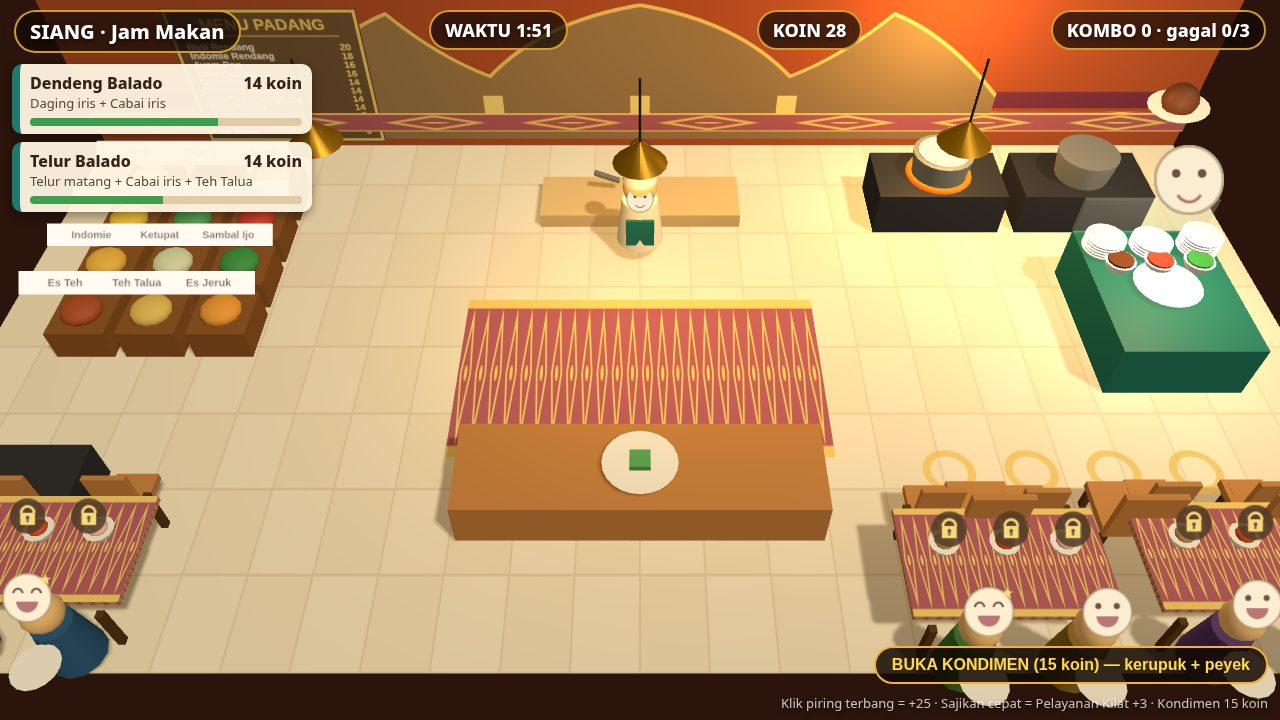
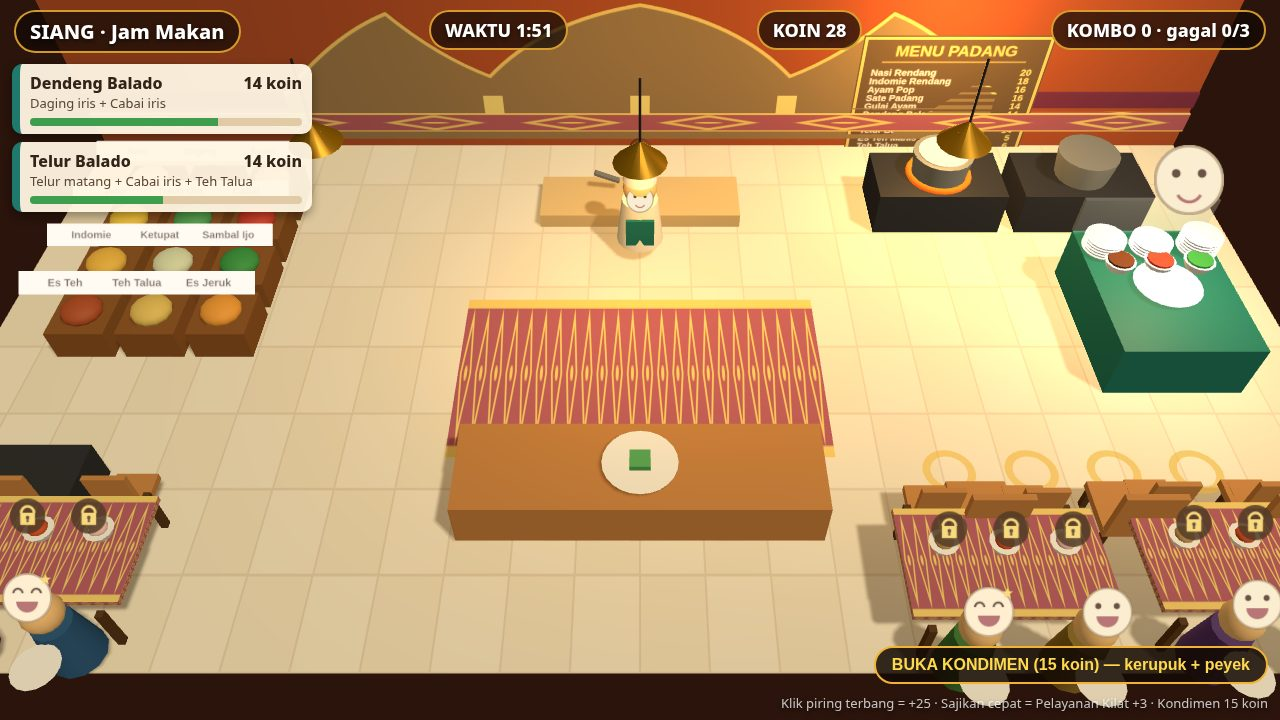
Fix kuntilanak fairness (Goldfish B1): lull telegraph + 55s patience; brighter horror, gold-rim flying plate, menu board visible

diff --git a/game/src/main.js b/game/src/main.js
@@ -2,7 +2,7 @@
 // same autopilot, same ?shot/?auto/?seed — only the renderer is Three.js.
 import { BEST_KEY, H, INGREDIENTS, INTERACT_RADIUS, RECIPES, STAGES, STATIONS, STEP, itemName, recipeById } from './config.js';
 import { createRandom } from './random.js';
-import { createWorld, EVENT_CHOP, EVENT_DING, EVENT_DROP, EVENT_FAILED, EVENT_KUNTILANAK, EVENT_KUNTILANAK_FAIL, EVENT_KUNTILANAK_WIN, EVENT_LOSE, EVENT_NO_ORDER, EVENT_PICKUP, EVENT_PLATE, EVENT_RUSH, EVENT_SERVED, EVENT_STAGE, EVENT_WIN } from './kitchen.js';
+import { createWorld, EVENT_CHOP, EVENT_DING, EVENT_DROP, EVENT_FAILED, EVENT_KUNTILANAK, EVENT_KUNTILANAK_FAIL, EVENT_KUNTILANAK_WIN, EVENT_LOSE, EVENT_NONE, EVENT_NO_ORDER, EVENT_PICKUP, EVENT_PLATE, EVENT_RUSH, EVENT_SERVED, EVENT_STAGE, EVENT_WIN } from './kitchen.js';
 import { ACTION_CONFIRM, ACTION_MUTE, ACTION_PAUSE, createInput } from './input.js';
 import { createScene3D, SCREEN_OVER, SCREEN_PAUSED, SCREEN_PLAY, SCREEN_TITLE } from './scene3d.js';
 import { createAudio } from './audio.js';
@@ -21,6 +21,7 @@ const status = document.getElementById('status');
 let condimentBonus = 0;
 let condimentTakes = 0;
 const world = createWorld(createRandom(seed));
+window.__world = world; // debug hook for the sim (like __scene3d below)
 const scene3d = createScene3D(canvas);
 window.__scene3d = scene3d;
 const audio = createAudio();
@@ -120,12 +121,33 @@ function moveToward(worldState, target) {
   }
   return { dx: dx / d, dy: dy / d };
 }
+// Build order: an ingredient that only the target recipe needs goes on the
+// plate FIRST. A plate that exactly matches another recipe auto-completes
+// as that recipe the moment it lands — building Nasi Kapau NASI-first
+// turns [NASI, DAGING] into Rendang on the pass, jamming it with no
+// matching ticket (proven 25 Nov in sim-logic: kapau expired unserved).
+// SAYUR first keeps the plate from ever matching Rendang.
+function buildOrder(recipe) {
+  const rivals = RECIPES.filter((r) => r.id !== recipe.id && r.needs.every((n) => recipe.needs.includes(n)));
+  return [...recipe.needs].sort((a, b) => {
+    const ca = rivals.filter((r) => r.needs.includes(a)).length;
+    const cb = rivals.filter((r) => r.needs.includes(b)).length;
+    return ca - cb;
+  });
+}
 function autopilotInput() {
   const s = world.state;
   const none = { dx: 0, dy: 0, interact: false };
-  const ticket = s.tickets[0];
+  // Telegraph: during the quiet lull before she arrives there is no ticket
+  // yet, but the banner already says Sate Padang ×3 — cook sate now and
+  // stage it on the etalase, exactly like a human who read the warning.
+  let ticket = s.tickets[0];
+  if (!ticket && s.kuntilanak.lull && s.kuntilanak.status === 'idle') {
+    ticket = { recipeId: 'sate', needs: recipeById('sate').needs };
+  }
   if (!ticket) return { dx: 0, dy: 0, interact: false };
   const recipe = recipeById(ticket.recipeId);
+  const orderedNeeds = buildOrder(recipe);
   if (s.passDish) {
     if (atStation(s, 'pass')) return { dx: 0, dy: 0, interact: true };
     return { ...moveToward(s, stationCentre('pass')), interact: false };
@@ -144,7 +166,7 @@ function autopilotInput() {
     if (atStation(s, 'bin')) return { dx: 0, dy: 0, interact: true };
     return { ...moveToward(s, stationCentre('bin')), interact: false };
   }
-  const need = recipe.needs.find((n) => !s.plate.includes(n));
+  const need = orderedNeeds.find((n) => !s.plate.includes(n));
   if (!need) return none;
   const [needId, needState] = need.split(':');
   const inTray = s.tray.indexOf(need);
@@ -161,6 +183,21 @@ function autopilotInput() {
     }
     const other = recipe.needs.find((n) => !s.plate.includes(n) && !s.tray.some((k) => k.split(':')[0] === n.split(':')[0]) && n !== need && !s.pots.some((p) => p.item && p.item.split(':')[0] === n.split(':')[0]));
     if (other && s.tray.length < 3) return fetchInput(s, other);
+    // While this pot cooks, start the next cookable in the free pot
+    // instead of idling at the stove (same as sim-logic.mjs).
+    const freePot = s.pots.findIndex((p) => !p.item);
+    if (freePot >= 0) {
+      const cookIdx = s.tray.findIndex((k) => {
+        const [id, st] = k.split(':');
+        const ing = INGREDIENTS[id];
+        if (!ing || !recipe.needs.some((n) => n.split(':')[0] === id)) return false;
+        return (st === 'raw' && ing.prep === 'cook') || (st === 'chopped' && ing.prep === 'chopcook');
+      });
+      if (cookIdx >= 0) {
+        if (atStation(s, `stove:${freePot}`)) return { dx: 0, dy: 0, interact: true };
+        return { ...moveToward(s, stationCentre(`stove:${freePot}`)), interact: false };
+      }
+    }
     return { ...moveToward(s, stationCentre(`stove:${potIdx}`)), interact: false };
   }
   const ing = INGREDIENTS[needId];
@@ -260,7 +297,19 @@ function updateHUD() {
   }).join('');
   // Horror overlay.
   $('vignette').style.opacity = String(Math.min(1, (s.horror || 0) * 0.9));
-  $('horror-banner').style.opacity = s.kuntilanak.status === 'active' ? '1' : '0';
+  // Telegraph: while the kitchen is quiet before she arrives, the banner
+  // warns what she will order (Sate Padang ×3) so the cook can pre-cook
+  // during the lull instead of learning it from the ticket.
+  const banner = $('horror-banner');
+  if (s.kuntilanak.status === 'active') {
+    banner.textContent = 'DIA DATANG...';
+    banner.style.opacity = '1';
+  } else if (s.kuntilanak.lull && s.kuntilanak.status === 'idle') {
+    banner.textContent = 'DIA LAPAR... SATE PADANG ×3 — MASAK SEKARANG!';
+    banner.style.opacity = '1';
+  } else {
+    banner.style.opacity = '0';
+  }
   // Stage card.
   const card = $('stage-card');
   if (s.transition > 0) {
@@ -274,9 +323,28 @@ function updateHUD() {
   condBar.style.display = (!s.condimentsUnlocked && s.coins >= 15) ? 'block' : 'none';
 }
 
+// Click the flying plate where it is actually drawn: its screen position
+// is the 3D projection at its floating height (2.6), not its 2D floor
+// coordinates — comparing raw click pixels to floor coords missed by ~90px.
+function tryPlateClick(x, y) {
+  const fp = world.state.flyingPlate;
+  if (!fp.active) return EVENT_NONE;
+  const pp = scene3d.project(fp.x, fp.y, 2.6);
+  if (Math.hypot(x - pp.x, y - pp.y) > 44) return EVENT_NONE;
+  return world.tryCatchPlate(fp.x, fp.y);
+}
+
 function runShot(name) {
   const scene = stageShot(name, world);
   $('overlay').style.display = 'none';
+  // Clicking works in shot scenes too: the staged flying plate can be
+  // caught with a real click (tryCatchPlate), like in the live game.
+  canvas.addEventListener('pointerdown', (e) => {
+    const rect = canvas.getBoundingClientRect();
+    const x = (e.clientX - rect.left) * (canvas.width / rect.width);
+    const y = (e.clientY - rect.top) * (canvas.height / rect.height);
+    tryPlateClick(x, y);
+  });
   let painted = 0;
   function paint() {
     updateHUD();
@@ -297,6 +365,8 @@ function exposeState(screen) {
     tickets: s.tickets.length, tray: [...s.tray], plate: [...s.plate], passDish: s.passDish,
     stageIndex: s.stageIndex, stageElapsed: Math.round(s.stageElapsed * 10) / 10,
     transition: Math.round(s.transition * 10) / 10, kuntilanak: s.kuntilanak.status,
+    kuntilanakTelegraph: s.kuntilanak.lull && s.kuntilanak.status === 'idle',
+    flyingPlateX: Math.round(s.flyingPlate.x), flyingPlateY: Math.round(s.flyingPlate.y),
     badges: [...s.badges], flyingPlate: s.flyingPlate.active, kapauDue: s.kapauDue,
     horror: Math.round((s.horror || 0) * 100) / 100, customers: s.customers.length,
     condimentUnlocked: !!s.condimentsUnlocked, condimentBonus, condimentTakes,
@@ -417,7 +487,7 @@ function runGame() {
     const click = input.takeClick();
     if (click) {
       audio.unlock();
-      const plateEvents = world.tryCatchPlate(click.x, click.y);
+      const plateEvents = tryPlateClick(click.x, click.y);
       if (plateEvents) {
         handleEvents(plateEvents);
         mouseStation = null;

diff --git a/game/src/scene3d.js b/game/src/scene3d.js
@@ -56,7 +56,7 @@ export function createScene3D(canvas) {
   lampPass.position.set(toWorldX(1192), 3.0, toWorldZ(420));
   scene.add(lampPass);
   const horrorLight = new THREE.PointLight(0xaa0000, 0, 14, 1.4);
-  horrorLight.position.set(toWorldX(1192), 2.5, toWorldZ(380));
+  horrorLight.position.set(toWorldX(1150), 2.5, toWorldZ(350)); // on her, not the etalase
   scene.add(horrorLight);
 
   // ---- the room shell: checkered floor, back wall, door, dressing ----
@@ -137,11 +137,14 @@ export function createScene3D(canvas) {
   gonjong.name = 'gonjong';
   gonjong.position.set(0, 1.8, -5.15);
   scene.add(gonjong);
+  // Menu board, right of the gonjong: it used to hang at x=-7.0, directly
+  // behind the ticket column, so the tickets hid every dish name. On the
+  // right wall, above the stoves, its title and prices stay visible.
   const menuBoard = new THREE.Mesh(
     new THREE.PlaneGeometry(3.6, 2.95),
     new THREE.MeshStandardMaterial({ map: drawMenuTexture(), roughness: 0.85 })
   );
-  menuBoard.position.set(-7.0, 1.6, -5.15);
+  menuBoard.position.set(6.0, 1.05, -5.15);
   scene.add(menuBoard);
   // Hanging lamps: visible brass shades + bulbs; the point lights above do
   // the actual lighting, these are the fixtures you see.
@@ -438,7 +441,7 @@ export function createScene3D(canvas) {
   // ---- the kuntilanak ----
   const kunti = new THREE.Group();
   const dress = new THREE.Mesh(new THREE.ConeGeometry(0.55, 1.7, 16),
-    new THREE.MeshStandardMaterial({ color: 0xf2f2f5, roughness: 0.9, transparent: true, opacity: 0.96 }));
+    new THREE.MeshStandardMaterial({ color: 0xf2f2f5, roughness: 0.9, transparent: true, opacity: 0.96, emissive: 0x661111, emissiveIntensity: 0.6 }));
   dress.position.y = 0.85; dress.castShadow = true;
   const kHead = new THREE.Mesh(new THREE.SphereGeometry(0.26, 16, 12),
     new THREE.MeshStandardMaterial({ color: 0xe8d8c8, roughness: 0.6 }));
@@ -450,18 +453,31 @@ export function createScene3D(canvas) {
   kFace.scale.set(0.5, 0.5, 1);
   kFace.position.set(0, 1.85, 0.28);
   kunti.add(dress, kHead, hair, kFace);
-  kunti.position.set(toWorldX(1192), 0.35, toWorldZ(330));
+  // Red halo so she reads as a figure at thumbnail size, not a smudge.
+  const kGlow = new THREE.Sprite(new THREE.SpriteMaterial({ map: makeGlowTexture(), color: 0xff5040, transparent: true, opacity: 0.55, depthWrite: false }));
+  kGlow.scale.set(3.2, 3.2, 1);
+  kGlow.position.set(0, 1.2, 0);
+  kunti.add(kGlow);
+  kunti.scale.setScalar(1.3);
+  kunti.position.set(toWorldX(1150), 0.35, toWorldZ(350)); // in front of the etalase, not behind it
   kunti.visible = false;
   scene.add(kunti);
 
-  // ---- the flying plate (click it for +25) ----
+  // ---- the flying plate (click it for +25): gold rim + glow so the white
+  // disc reads against the cream floor — it vanished in the cover thumbnail.
   const flyingPlate = new THREE.Group();
   const fpDisc = new THREE.Mesh(new THREE.CylinderGeometry(0.5, 0.4, 0.08, 20),
     new THREE.MeshStandardMaterial({ color: 0xffffff, roughness: 0.3 }));
-  const fpFood = new THREE.Mesh(new THREE.SphereGeometry(0.3, 12, 8),
-    new THREE.MeshStandardMaterial({ color: 0x6e3b1f, roughness: 0.6 }));
+  const fpRim = new THREE.Mesh(new THREE.TorusGeometry(0.5, 0.07, 8, 24),
+    new THREE.MeshStandardMaterial({ color: 0xf2b234, emissive: 0xa86f00, emissiveIntensity: 0.9, roughness: 0.4, metalness: 0.5 }));
+  fpRim.rotation.x = Math.PI / 2;
+  const fpGlow = new THREE.Sprite(new THREE.SpriteMaterial({ map: makeGlowTexture(), color: 0xffc46b, transparent: true, opacity: 0.8, depthWrite: false }));
+  fpGlow.scale.set(2.6, 2.6, 1);
+  const fpFood = new THREE.Mesh(new THREE.SphereGeometry(0.36, 12, 8),
+    new THREE.MeshStandardMaterial({ color: 0x4a2410, roughness: 0.6 }));
   fpFood.position.y = 0.15;
-  flyingPlate.add(fpDisc, fpFood);
+  flyingPlate.add(fpGlow, fpDisc, fpRim, fpFood);
+  flyingPlate.scale.setScalar(1.45); // bigger on screen — it must read at 384px thumbnail
   flyingPlate.visible = false;
   scene.add(flyingPlate);
 
@@ -599,8 +615,12 @@ export function createScene3D(canvas) {
     }
   }
 
-  function project(x, y) {
-    tmpV.set(toWorldX(x), 0.6, toWorldZ(y)).project(camera);
+  // height is the world height to project at (default 0.6, ground level). The
+  // flying plate floats at 2.6 — projecting it at 0.6 puts its click target
+  // ~90px below where it is actually drawn, so clicks on the visible plate
+  // used to miss (proven 25 Nov in the plate sim).
+  function project(x, y, height = 0.6) {
+    tmpV.set(toWorldX(x), height, toWorldZ(y)).project(camera);
     const w = canvas.clientWidth || 1280;
     const h = canvas.clientHeight || 720;
     return { x: (tmpV.x * 0.5 + 0.5) * w, y: (-tmpV.y * 0.5 + 0.5) * h };
@@ -612,14 +632,16 @@ export function createScene3D(canvas) {
     const horror = state.horror || 0;
     const flicker = state.flicker ?? 1;
 
-    // Horror mood: fog rolls in, the lamps dim and flicker, the room darkens.
-    scene.fog.density = horror * 0.065;
+    // Horror mood, kept readable: the old dimming (ambient ×0.45, fog 0.065)
+    // turned the horror screenshot nearly black and hid the kuntilanak.
+    // Brighter now (ambient ×0.70, fog 0.038) so she still reads in a still.
+    scene.fog.density = horror * 0.038;
     scene.background.lerpColors(bgNormal, bgHorror, horror);
-    ambient.intensity = 0.85 * (1 - 0.55 * horror) * flicker;
-    sun.intensity = 1.6 * (1 - 0.5 * horror) * flicker;
-    lampStove.intensity = 22 * flicker * (1 - 0.4 * horror);
-    lampPass.intensity = 16 * flicker * (1 - 0.4 * horror);
-    horrorLight.intensity = horror * 34;
+    ambient.intensity = 0.85 * (1 - 0.30 * horror) * flicker;
+    sun.intensity = 1.6 * (1 - 0.30 * horror) * flicker;
+    lampStove.intensity = 22 * flicker * (1 - 0.25 * horror);
+    lampPass.intensity = 16 * flicker * (1 - 0.25 * horror);
+    horrorLight.intensity = horror * 55;
 
     // Camera: a slow sway while she is here, plus shake on scares and fails.
     const shake = (state.shake || 0) + horror * 0.12;
@@ -781,7 +803,7 @@ export function createScene3D(canvas) {
     }
     const unlocked = !!state.condimentsUnlocked;
     for (const lock of condimentLocks) lock.visible = !unlocked;
-    lampMid.intensity = 12 * flicker * (1 - 0.4 * horror);
+    lampMid.intensity = 12 * flicker * (1 - 0.25 * horror);
 
     renderer.render(scene, camera);
   }

diff --git a/game/src/kitchen.js b/game/src/kitchen.js
@@ -424,13 +424,28 @@ export function createWorld(rng) {
 
     // Kuntilanak (MALAM only): after 60s the kitchen goes quiet — spawning
     // pauses until the board empties — and if it stays empty for 8s, she
-    // appears at the etalase and orders 3× Sate Padang in 25 seconds.
+    // appears at the etalase and orders 3× Sate Padang in 55 seconds.
+    // The lull telegraphs her order first (banner + float below), so a
+    // cook who pre-cooks during the quiet 8s can stage sates on the
+    // etalase before her ticket appears.
     const k = state.kuntilanak;
     if (state.stageIndex === STAGES.length - 1 && k.status === 'idle') {
-      if (state.stageElapsed >= 60 && !k.lull) k.lull = true;
+      if (state.stageElapsed >= 60 && !k.lull) {
+        k.lull = true;
+        addFloat(640, 120, 'Dia lapar... Sate Padang ×3 — masak sekarang!', '#ff8a7a');
+      }
       if (k.lull) {
-        if (state.tickets.length === 0) k.quiet += dt;
-        else k.quiet = 0;
+        if (state.tickets.length === 0) {
+          // Second warning, exactly when the 8s quiet countdown starts.
+          if (!k.quietAnnounced) {
+            k.quietAnnounced = true;
+            addFloat(640, 120, 'Dapur sepi — Sate Padang ×3, masak sekarang!', '#ff8a7a');
+          }
+          k.quiet += dt;
+        } else {
+          k.quiet = 0;
+          k.quietAnnounced = false;
+        }
         if (k.quiet >= 8) {
           k.status = 'active';
           state.ticketSeq += 1;

diff --git a/game/src/orders.js b/game/src/orders.js
@@ -45,15 +45,20 @@ export function createSecretTicket(recipeId, stage, stageElapsed, id) {
   return { id, recipeId, name: recipe.name, needs: recipe.needs, coins: recipe.coins, patience: max, max };
 }
 
-// The kuntilanak's order: 3× Sate Padang on one ticket, 45 seconds to
-// serve them all (25s would be unwinnable: one sate alone needs ~20s of
-// chopping, cooking and walking — 3 need ~45s even played well).
+// The kuntilanak's order: 3× Sate Padang on one ticket, 55 seconds to
+// serve them all. 45s was unwinnable cold (measured: sate 1 at 17.3s,
+// sate 2 at 36.1s, ticket expired at 45s — budget = need, slack 0), and
+// the game never said what she wanted. Now the 8s lull telegraphs it
+// ("Sate Padang ×3 — masak sekarang!") so a cook can pre-stage, and the
+// 55s budget leaves room for one imperfect sate. Cold autopilot post-fix
+// serves at 9.4s / 28.1s / 46.9s after she arrives (4/4 seeds) — 55s
+// leaves ~8s slack; 45s would cut the third sate (46.9 > 45).
 // Served count lives on the ticket itself.
 export function createKuntilanakTicket(id) {
   const recipe = RECIPES.find((r) => r.id === 'sate');
   return {
     id, recipeId: 'sate', name: 'Sate Padang ×3', needs: recipe.needs, coins: recipe.coins,
-    patience: 45, max: 45, kuntilanak: true, needCount: 3, servedCount: 0,
+    patience: 55, max: 55, kuntilanak: true, needCount: 3, servedCount: 0,
   };
 }
 

diff --git a/top10-analysis.md b/top10-analysis.md
@@ -78,6 +78,31 @@ inference rather than observation, it says so.
    pre-cooks during the lull can do the same; a human who does not will
    eat the −20 and half the night — which is the intended sting.
 
+## Fix round — Goldfish review 25 Nov ~17:27 (verdict: LAYAK LANJUT, BELUM LAYAK SUBMIT)
+
+One blocker (B1): the kuntilanak was unwinnable cold — autopilot sate 1 at
+17.3s, sate 2 at 36.1s, ticket expired at 45s, and the game never said she
+wanted Sate Padang ×3. Fix: (a) the 8s lull now telegraphs her order on
+screen (banner "DIA LAPAR... SATE PADANG ×3 — MASAK SEKARANG!" + floating
+text) so the cook — and the autopilot — can pre-cook and stage sate during
+the quiet; (b) her patience 45 → 55s, so one imperfect sate still fits.
+Measured (25 Nov, `sim-logic.mjs all` PASS): cold autopilot wins 4/4
+seeds, sates served at 9.4s / 28.1s / 46.9s after she arrives — the third
+sate at 46.9s is why 55s (not 45s) is the budget; 45s would have cut it.
+Full wins 552/464/435/449 coins (4 seeds); staged kuntilanak-win +96;
+fail path −20 + night halved; idle-lose 0 coins. Browser playtest: win
+seed 20261125, 368 coins, 0 console errors; horror probe PASS; flying-plate
+click live 42 → 67 (+25). Screenshots re-shot: 1-play 136.746 B, 4-serve
+106.606 B, all four <256 KiB; thumbnails checked at 384px (menu board +
+plate dot read on the cover; pale red-halo figure + "DIA DATANG..." +
+red ticket read on the horror shot).
+Also fixed: the stale `kitchen.js` comment ("25 seconds"), the horror
+lighting (was nearly black in the serve shot — ambient ×0.45, fog 0.065;
+now ×0.70 / 0.038 so she reads in a still), the flying plate (gold rim +
+glow — it vanished white-on-cream in the cover thumbnail), and the menu
+board (moved right of the gonjong, above the stoves — the ticket column
+used to hide every dish name).
+
 ## What the 3D entry does that the 2.5D sibling does not
 
 - A navigable 3D room with depth, shadows and a moving camera (sway +

diff --git a/README.md b/README.md
@@ -27,8 +27,12 @@ crosses the room once or twice a shift (click it: +25 "Piring Hantu"). Hot
 dishes steam, cold drinks fog up with ice, and the chef walks, chops and
 jumps back with a red "!" when the kuntilanak arrives — the room dims, the
 lamps flicker, fog rolls in, the music stops, and she orders 3× Sate Padang
-in 45 seconds: serve them all for +40 coins and the "Berani!" badge, or lose
-20 coins and half the rest of the night.
+in 55 seconds: serve them all for +40 coins and the "Berani!" badge, or lose
+20 coins and half the rest of the night. The quiet lull before she arrives
+telegraphs her order on screen ("DIA LAPAR... SATE PADANG ×3 — MASAK
+SEKARANG!"), so a cook can pre-cook sate during the 8s quiet and stage it
+on the etalase. Cold autopilot wins her on 4/4 seeds (sates at 9.4s / 28.1s /
+46.9s after she arrives).
 
 Rendang — the most famous Indonesian dish abroad — is the signature: the
 highest coins in the house, slow-cooked the longest.
